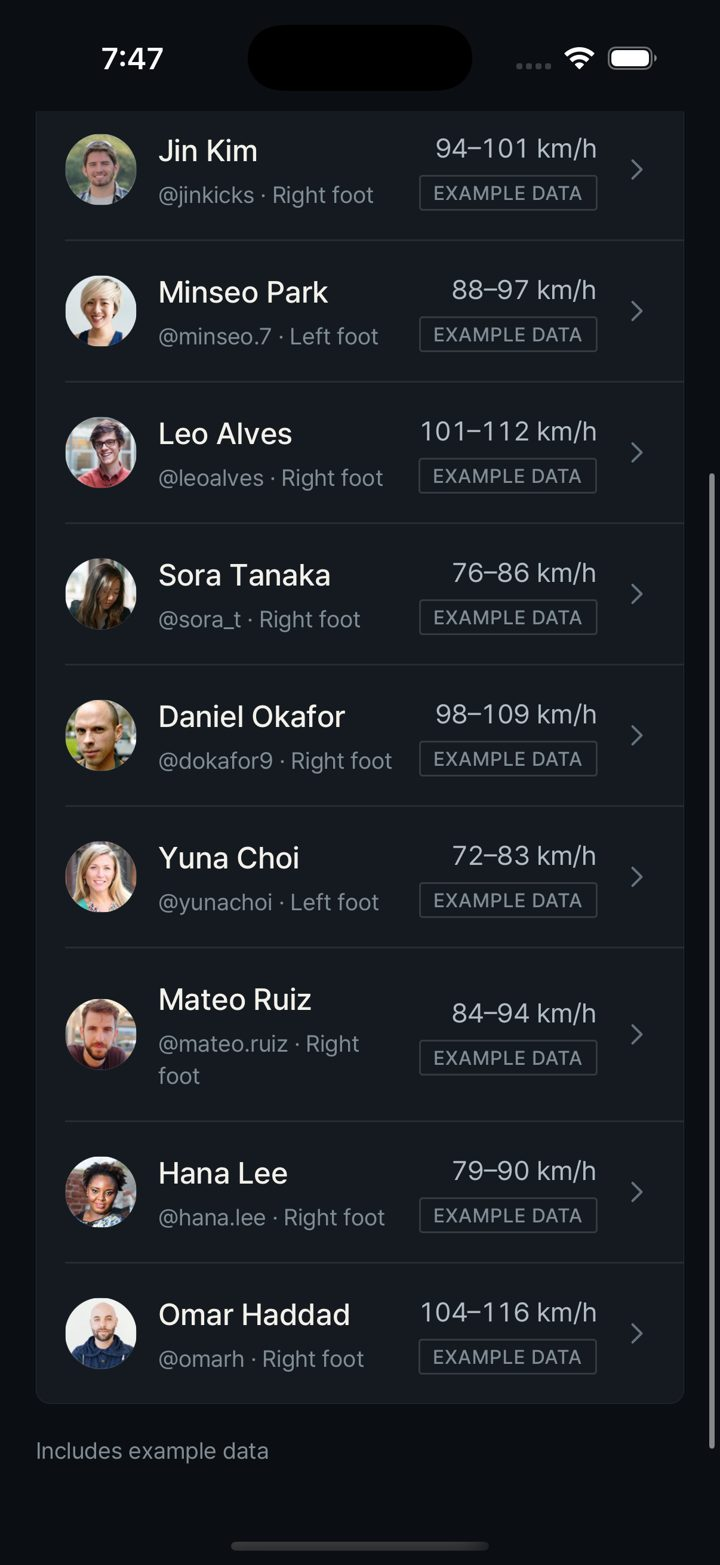
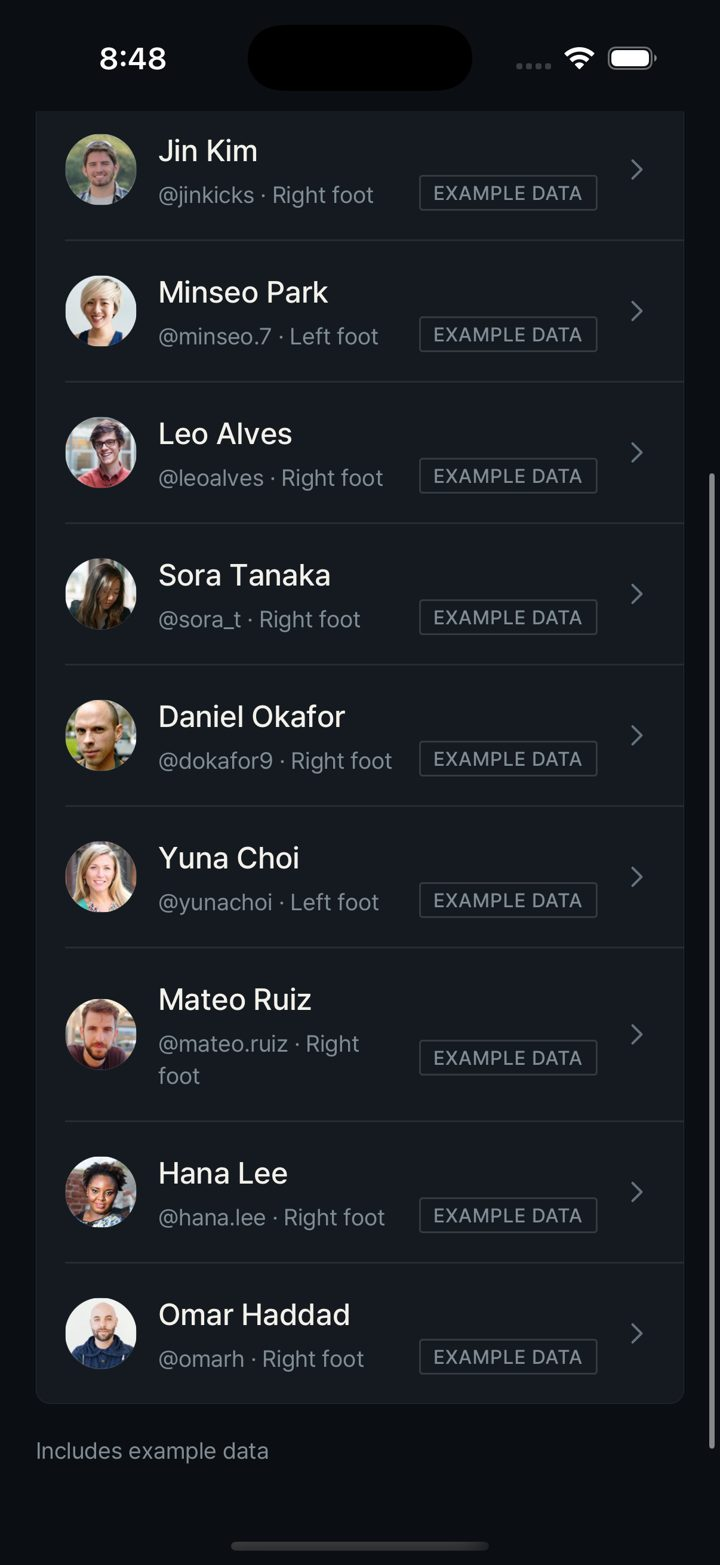
rev 3: no speed beside names, text-and-bar pro match, smoothed speed line

diff --git a/index.html b/index.html
@@ -12,8 +12,8 @@ figcaption{font-size:13px;color:var(--muted);margin-top:8px}
 .note{background:var(--card);border:1px solid var(--line);border-radius:12px;padding:12px 16px;margin:12px 0}
 footer{max-width:1400px;margin:24px auto;padding:16px 20px;border-top:1px solid var(--line);color:var(--muted);font-size:13px}
 </style></head><body>
-<header><h1>STRYKE — UI preview</h1><p>Native iOS simulator captures (iPhone 17 Pro), 17 September 2026 (rev 2: portraits, Sofascore chart colours, new pro-match card), branch <code>vxbrandon/dev-2026-09-17-2</code>. Every player, similarity figure and shot map on these screens is <strong>example data</strong> and is marked as such on the screen itself.</p>
+<header><h1>STRYKE — UI preview</h1><p>Native iOS simulator captures (iPhone 17 Pro), 17 September 2026 (rev 3: no speed beside names, text-and-bar pro match, smoothed speed line), branch <code>vxbrandon/dev-2026-09-17-2</code>. Every player, similarity figure and shot map on these screens is <strong>example data</strong> and is marked as such on the screen itself.</p>
 <div class="note">Flow: loading animation → landing page (first launch only) → Home (my stats · pro match · players) → player card (shot map · zone % · speed · stats · add friend) → Records (ribbon chart) → Ranking → Me.</div></header>
-<section><h2>Loading</h2><div class="row"><figure><img src="img/00-splash_8.jpg" alt="Loading page — the STRYKE mark strikes in along its outline" loading="lazy"><figcaption>Loading page — the STRYKE mark strikes in along its outline</figcaption></figure><figure><img src="img/01-splash_9.jpg" alt="Loading page — the lime accent flashes along the stroke" loading="lazy"><figcaption>Loading page — the lime accent flashes along the stroke</figcaption></figure><figure><img src="img/02-splash_10.jpg" alt="Loading page — filled mark and wordmark, before the plate lifts" loading="lazy"><figcaption>Loading page — filled mark and wordmark, before the plate lifts</figcaption></figure></div></section><section><h2>Landing</h2><div class="row"><figure><img src="img/03-w1.jpg" alt="Landing page (first launch) — silhouettes from the asset board, three promises, Get started" loading="lazy"><figcaption>Landing page (first launch) — silhouettes from the asset board, three promises, Get started</figcaption></figure></div></section><section><h2>Home</h2><div class="row"><figure><img src="img/04-home_top.jpg" alt="Home — capture first, recent session" loading="lazy"><figcaption>Home — capture first, recent session</figcaption></figure><figure><img src="img/05-home_c.jpg" alt="Home — My stats, Pro match (player → pro discs), Players rail with portraits" loading="lazy"><figcaption>Home — My stats, Pro match (player → pro discs), Players rail with portraits</figcaption></figure></div></section><section><h2>Records</h2><div class="row"><figure><img src="img/06-records.jpg" alt="Records — weekly top speed as a ribbon instead of bars" loading="lazy"><figcaption>Records — weekly top speed as a ribbon instead of bars</figcaption></figure></div></section><section><h2>Players</h2><div class="row"><figure><img src="img/07-list1.jpg" alt="Players list — portraits, everyone / friends, example mark on every row" loading="lazy"><figcaption>Players list — portraits, everyone / friends, example mark on every row</figcaption></figure></div></section><section><h2>Player card</h2><div class="row"><figure><img src="img/08-p1b.jpg" alt="Player card — portrait header, best-speed band, Add friend" loading="lazy"><figcaption>Player card — portrait header, best-speed band, Add friend</figcaption></figure><figure><img src="img/09-p9.jpg" alt="Player card — Shot map: green inside, red outside (Sofascore hit/miss colours)" loading="lazy"><figcaption>Player card — Shot map: green inside, red outside (Sofascore hit/miss colours)</figcaption></figure><figure><img src="img/10-p6.jpg" alt="Player card — Zone % grid on the Sofascore blue heat scale" loading="lazy"><figcaption>Player card — Zone % grid on the Sofascore blue heat scale</figcaption></figure><figure><img src="img/11-p7b.jpg" alt="Player card — Speed: weekly ribbon, gap for the week with no record" loading="lazy"><figcaption>Player card — Speed: weekly ribbon, gap for the week with no record</figcaption></figure><figure><img src="img/12-p8.jpg" alt="Player card — Stats tab, key stats list" loading="lazy"><figcaption>Player card — Stats tab, key stats list</figcaption></figure><figure><img src="img/13-me1.jpg" alt="My own card — built from the phone&#x27;s real shots" loading="lazy"><figcaption>My own card — built from the phone&#x27;s real shots</figcaption></figure></div></section><section><h2>Ranking</h2><div class="row"><figure><img src="img/14-rankings.jpg" alt="Ranking — board needs the dev Postgres (see notes); rows open a player card when it is up" loading="lazy"><figcaption>Ranking — board needs the dev Postgres (see notes); rows open a player card when it is up</figcaption></figure></div></section><section><h2>Me</h2><div class="row"><figure><img src="img/15-metab.jpg" alt="Me — My player card and Intro rows added" loading="lazy"><figcaption>Me — My player card and Intro rows added</figcaption></figure></div></section>
+<section><h2>Loading</h2><div class="row"><figure><img src="img/00-splash_8.jpg" alt="Loading page — the STRYKE mark strikes in along its outline" loading="lazy"><figcaption>Loading page — the STRYKE mark strikes in along its outline</figcaption></figure><figure><img src="img/01-splash_9.jpg" alt="Loading page — the lime accent flashes along the stroke" loading="lazy"><figcaption>Loading page — the lime accent flashes along the stroke</figcaption></figure><figure><img src="img/02-splash_10.jpg" alt="Loading page — filled mark and wordmark, before the plate lifts" loading="lazy"><figcaption>Loading page — filled mark and wordmark, before the plate lifts</figcaption></figure></div></section><section><h2>Landing</h2><div class="row"><figure><img src="img/03-w1.jpg" alt="Landing page (first launch) — silhouettes from the asset board, three promises, Get started" loading="lazy"><figcaption>Landing page (first launch) — silhouettes from the asset board, three promises, Get started</figcaption></figure></div></section><section><h2>Home</h2><div class="row"><figure><img src="img/04-home_top.jpg" alt="Home — capture first, recent session" loading="lazy"><figcaption>Home — capture first, recent session</figcaption></figure><figure><img src="img/05-home_c.jpg" alt="Home — My stats, Pro match (text and bar, no icon), Players rail with portraits" loading="lazy"><figcaption>Home — My stats, Pro match (text and bar, no icon), Players rail with portraits</figcaption></figure></div></section><section><h2>Records</h2><div class="row"><figure><img src="img/06-records.jpg" alt="Records — weekly top speed as a smoothed line with a fading uncertainty band" loading="lazy"><figcaption>Records — weekly top speed as a smoothed line with a fading uncertainty band</figcaption></figure></div></section><section><h2>Players</h2><div class="row"><figure><img src="img/07-list1.jpg" alt="Players list — portraits, no speed beside the name, example mark on every row" loading="lazy"><figcaption>Players list — portraits, no speed beside the name, example mark on every row</figcaption></figure></div></section><section><h2>Player card</h2><div class="row"><figure><img src="img/08-p1b.jpg" alt="Player card — portrait header, shots · sessions · active days, Add friend" loading="lazy"><figcaption>Player card — portrait header, shots · sessions · active days, Add friend</figcaption></figure><figure><img src="img/09-p9.jpg" alt="Player card — Shot map: green inside, red outside (Sofascore hit/miss colours)" loading="lazy"><figcaption>Player card — Shot map: green inside, red outside (Sofascore hit/miss colours)</figcaption></figure><figure><img src="img/10-p6.jpg" alt="Player card — Zone % grid on the Sofascore blue heat scale" loading="lazy"><figcaption>Player card — Zone % grid on the Sofascore blue heat scale</figcaption></figure><figure><img src="img/11-p7b.jpg" alt="Player card — Speed: smoothed weekly line, gap for the week with no record" loading="lazy"><figcaption>Player card — Speed: smoothed weekly line, gap for the week with no record</figcaption></figure><figure><img src="img/12-p7c.jpg" alt="Player card — Speed on a player with four measured weeks" loading="lazy"><figcaption>Player card — Speed on a player with four measured weeks</figcaption></figure><figure><img src="img/13-p8.jpg" alt="Player card — Stats tab, key stats list" loading="lazy"><figcaption>Player card — Stats tab, key stats list</figcaption></figure><figure><img src="img/14-me1.jpg" alt="My own card — built from the phone&#x27;s real shots" loading="lazy"><figcaption>My own card — built from the phone&#x27;s real shots</figcaption></figure></div></section><section><h2>Ranking</h2><div class="row"><figure><img src="img/15-rankings.jpg" alt="Ranking — board needs the dev Postgres (see notes); rows open a player card when it is up" loading="lazy"><figcaption>Ranking — board needs the dev Postgres (see notes); rows open a player card when it is up</figcaption></figure></div></section><section><h2>Me</h2><div class="row"><figure><img src="img/16-metab.jpg" alt="Me — My player card and Intro rows added" loading="lazy"><figcaption>Me — My player card and Intro rows added</figcaption></figure></div></section>
 <footer>Loading frames are single simulator screenshots taken during the animation. The ranking board reads the local API, whose Postgres was not running when these were taken; with <code>make db-up &amp;&amp; make seed-demo</code> its rows open the matching player card.</footer>
 </body></html>
